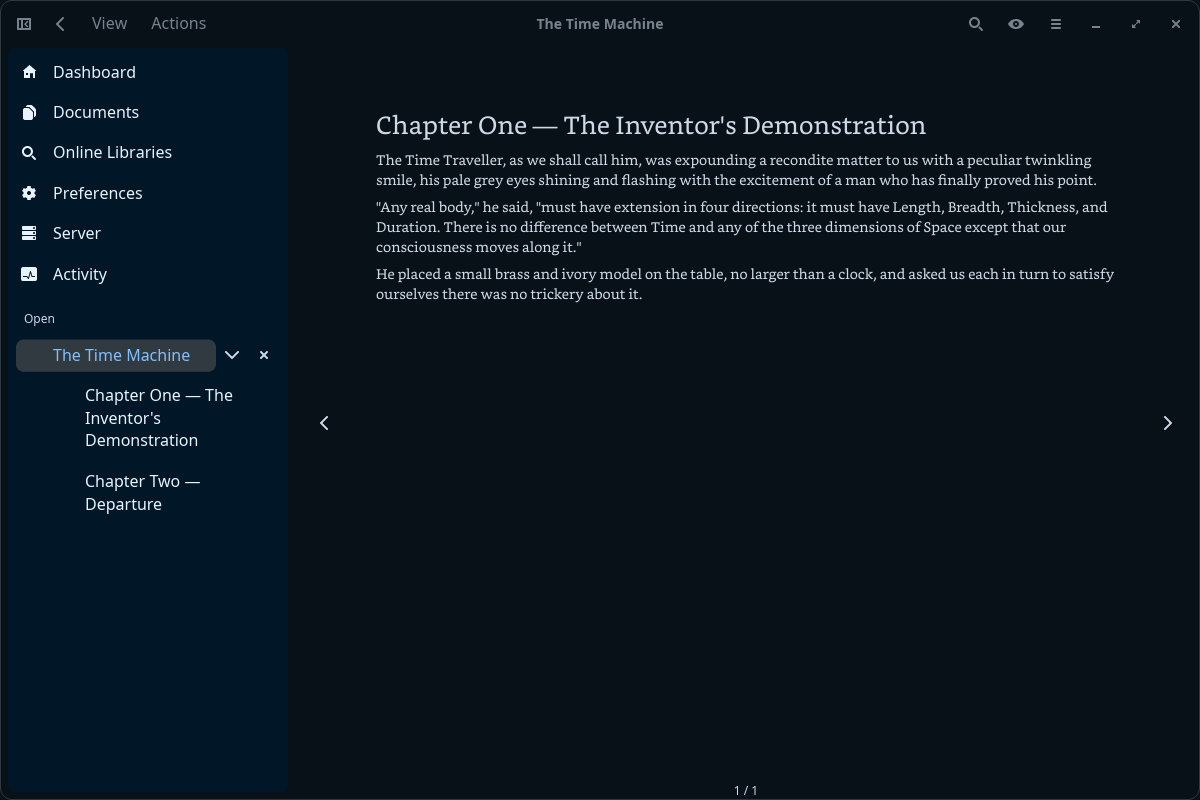
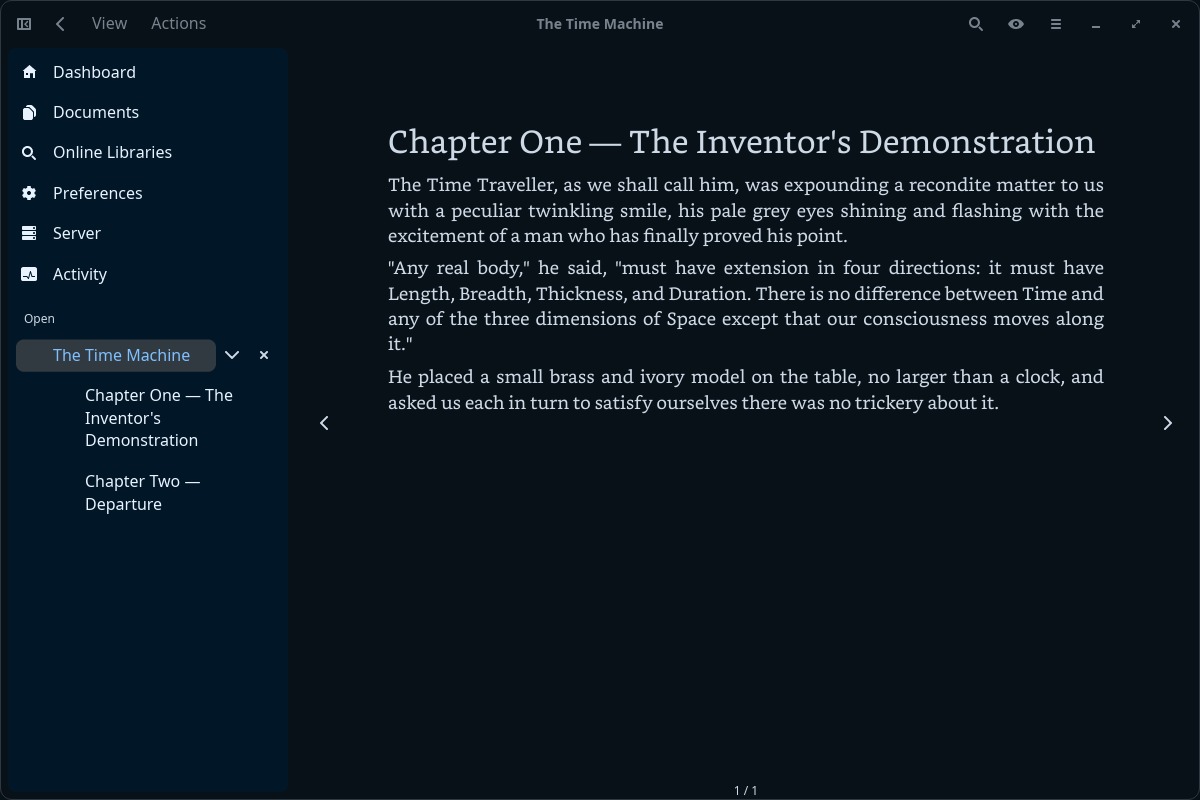
docs: refresh feature screenshots and document capture rules
- Regenerate cosmic-epub-reader.png with an 18px base font and justified
  paragraphs (v0.7.1 reader settings).
- Regenerate cosmic-pdf-reader.png on a page with readable body text
  instead of the cover.
- Regenerate cosmic-progress.png with four documents in progress, one
  completed and one unread.
- Document screenshot size, scene mapping, sample-data rules and known
  gaps in CLAUDE.md.

Changed region(s): [[0.3083, 0.125, 0.925, 0.4375], [0.3083, 0.4688, 0.925, 0.5312]]

diff --git a/CLAUDE.md b/CLAUDE.md
@@ -33,6 +33,28 @@ npm test          # vitest unit tests
   assets/sample-library> --out <path to src/assets/screenshots>`. It renders each app page
   headlessly (no display server, no live network) and writes PNGs straight to `--out`.
   Regenerate and re-commit them whenever the relevant app UI changes.
+  - Scenes live in `cosmic/src/screenshot_tool/scenes/` (in `read-flow/read-flow`). Output is
+    1200×800 PNG (`WIDTH`/`HEIGHT` in `screenshot_tool/mod.rs`), dark theme only, all shots of
+    one app share that size. Generation rewrites every scene. In one run, `cosmic-epub-reader.png`
+    and `cosmic-scanning.png` changed although their scenes had not, so commit only the shots you meant to change.
+  - Filenames: `cosmic-<slug>.png`, where `<slug>` matches the feature `slug` in `src/lib/features.ts`
+    (required feature shots: `scanning`, `tags`, `progress`, `multi-instance`, `pdf-reader`,
+    `epub-reader`, `opds`). Each feature shot must show its scene: scanning shows duplicate
+    candidates, progress shows a mix of Unread/Reading/Read states, pdf-reader shows a page with
+    readable body text (not the cover), epub-reader shows readable text, opds shows catalog
+    search results, multi-instance shows two configured remote sources marked reachable.
+  - Sample data only: titles come from `assets/sample-library/`, and the remote sources use
+    `example.com` hosts.
+  - Known gaps, not blocking:
+    - `cosmic-scanning.png` shows the duplicates as two selected rows with a Merge button. The UI
+      has no dedicated duplicate badge, so the shot does not flag a "detected duplicate" as such.
+    - `cosmic-progress.png` shows no visible Unread card: the dashboard only lists Reading
+      documents, so the Unread document appears only in the "Documents" count.
+    - Optional screenshots not captured: "Three ways in" cards (`src/components/ThreeWaysIn.astro`)
+      for the desktop app and PWA. No PWA scene exists. The headless server has no UI, so it is skipped.
+    - Guides embed only settings screenshots (`cosmic-settings-*.png`), not feature shots.
+    - Deleting the old `screenshots` branch on `read-flow/read-flow` (the former hotlink source) is
+      still pending. Nothing in this repo references it.
 - Guide content (`src/content/docs/guides/`) should stay in sync with `read-flow/read-flow`'s
   `README.md` and `read-flow.toml`/`core/src/settings.rs` — when that repo's config keys or
   install steps change, update the corresponding guide here in the same PR if possible.
